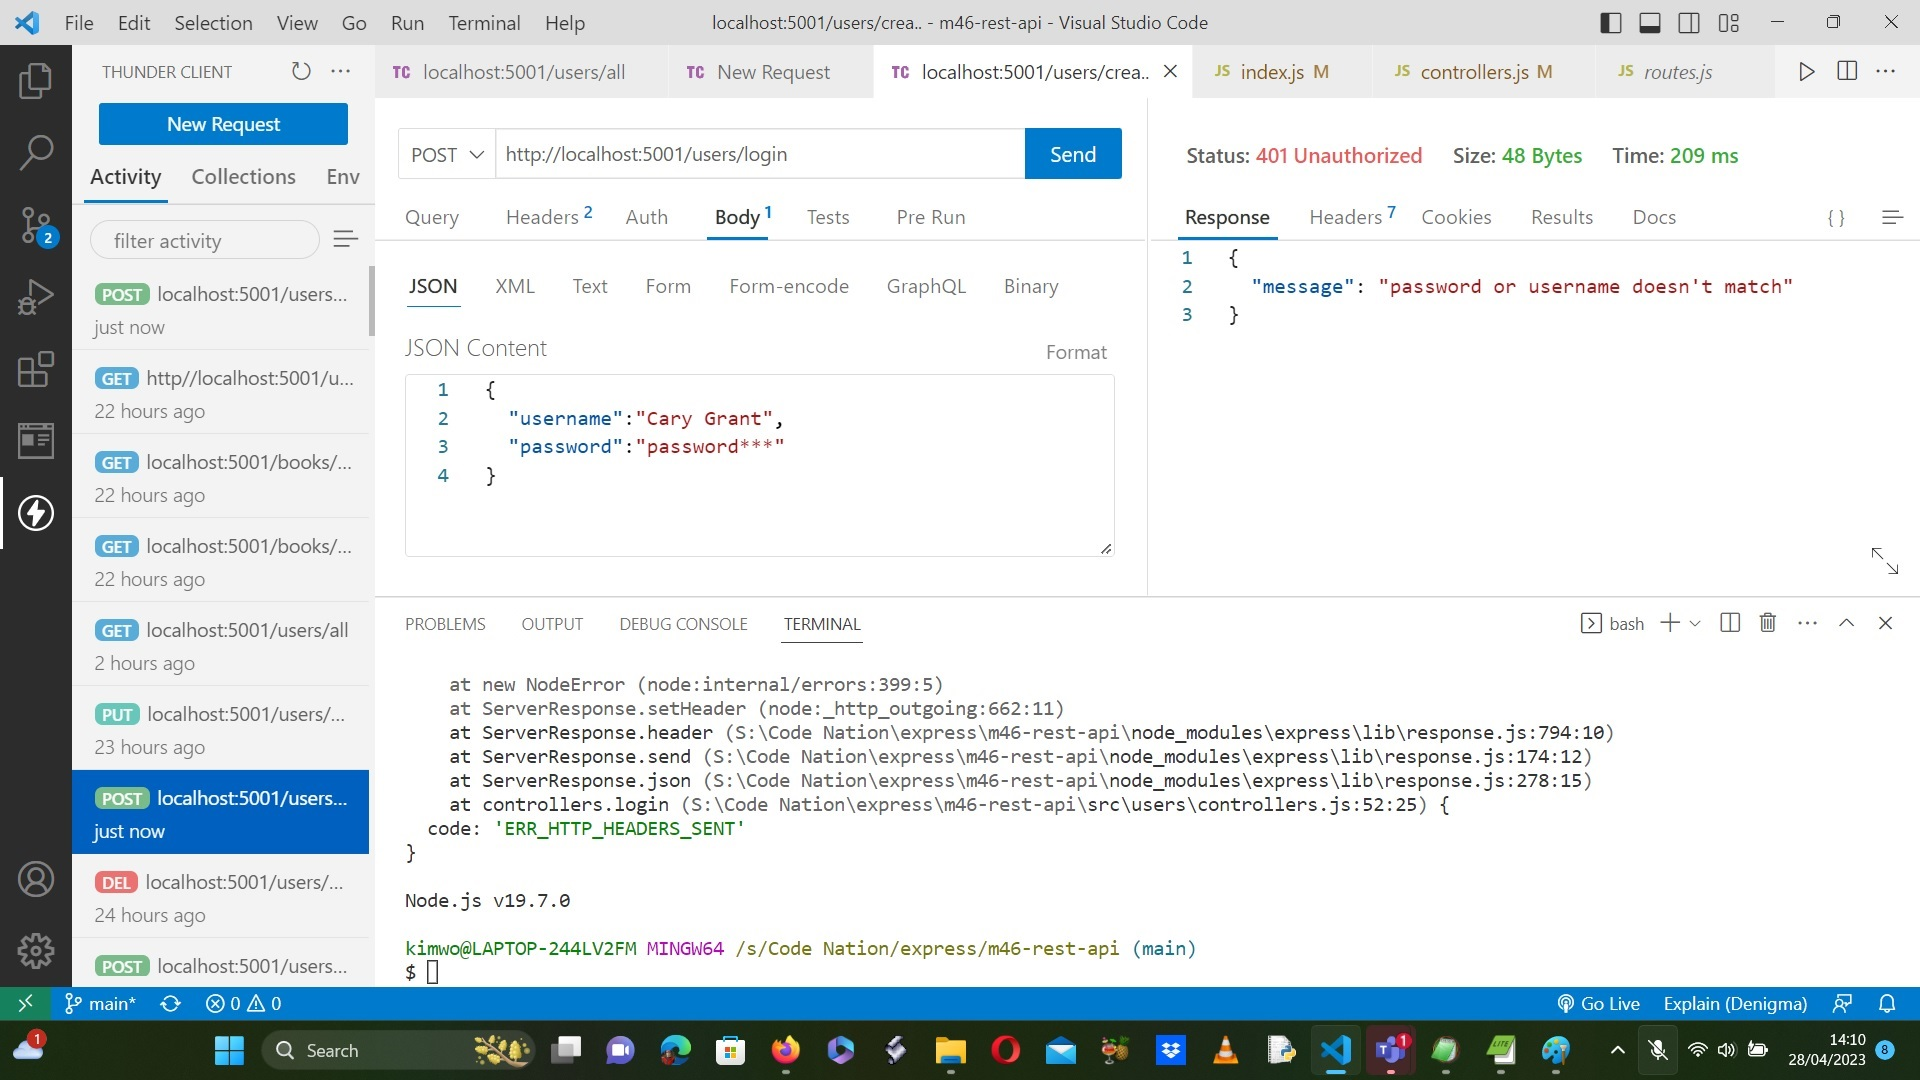
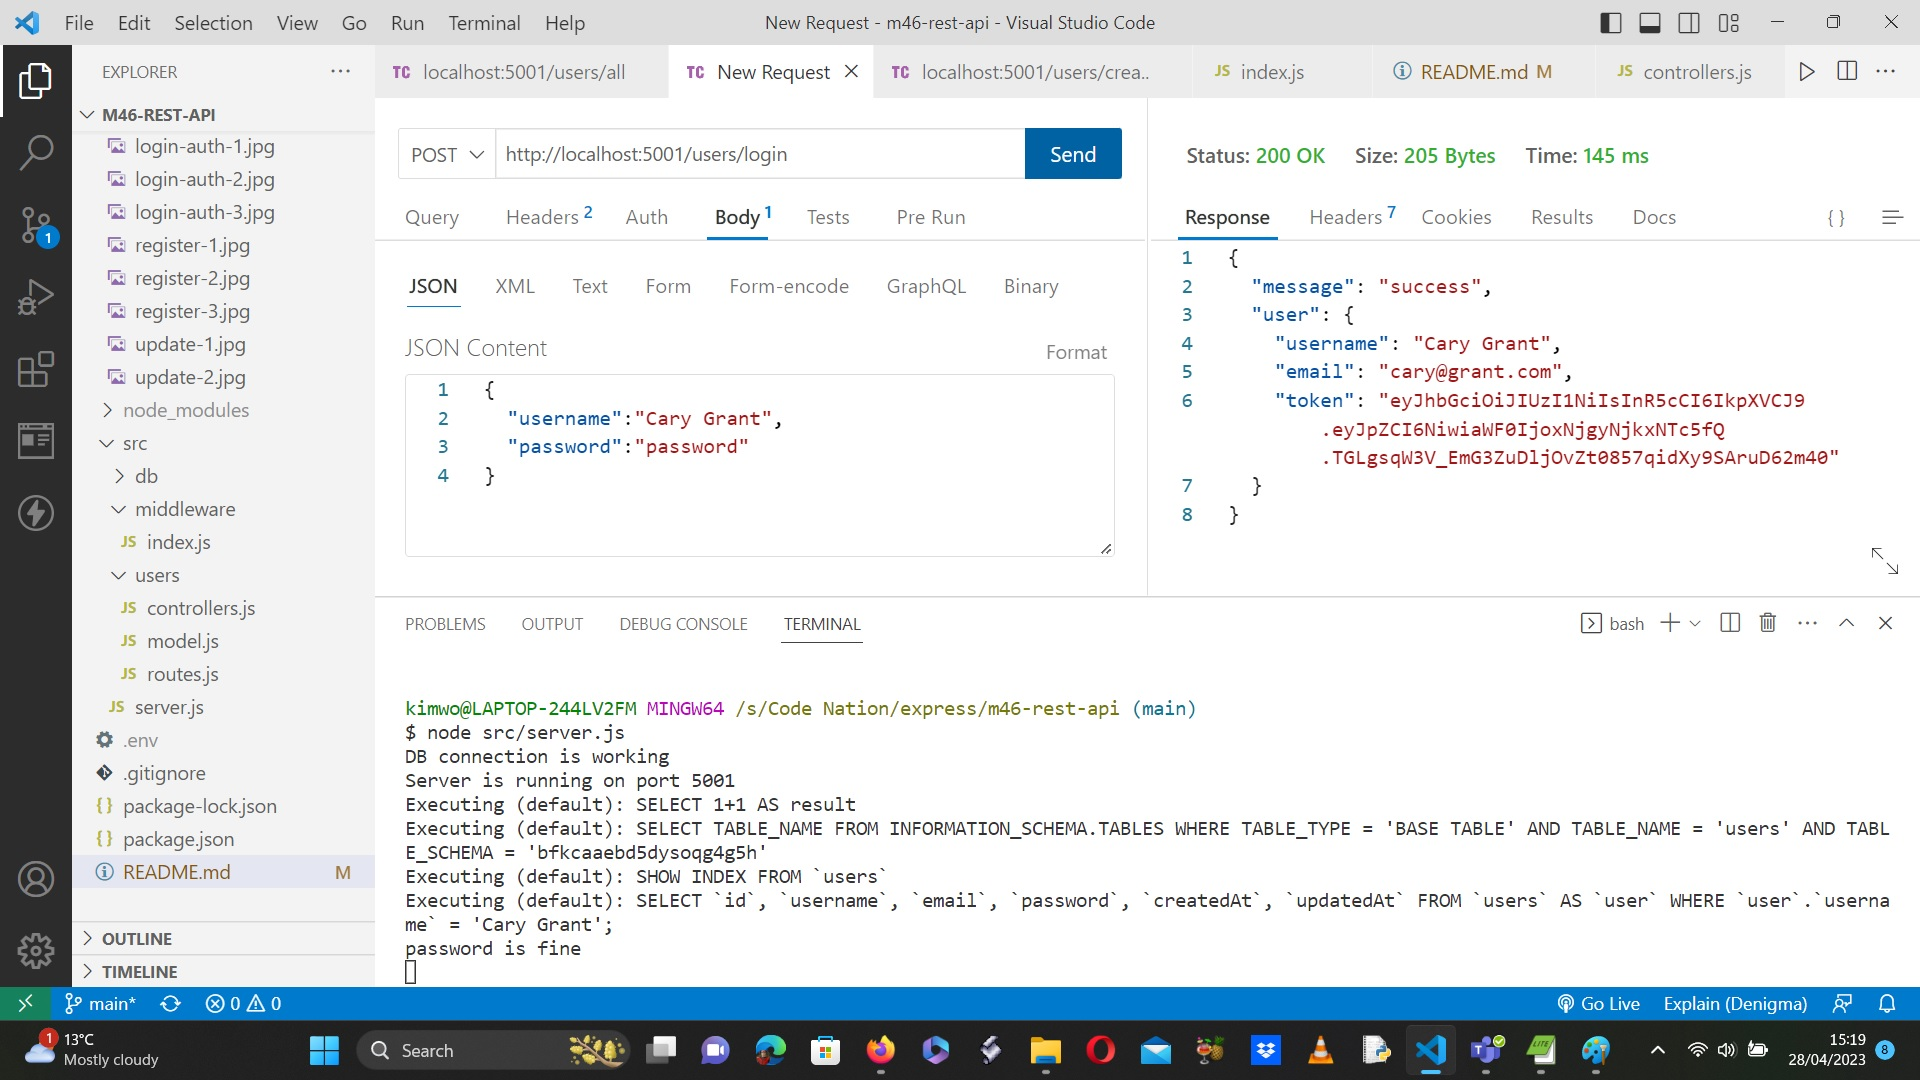
modified some images

diff --git a/README.md b/README.md
@@ -28,3 +28,9 @@ all-users-1.jpg       execute of 'users/login' for user to get authorisation tok
 all-users-2.jpg       using token in Authorization header to execute 'users/all' to get all users    
 
 
+Login Error Checking ('users/login')
+====================
+
+login-1.jpg           shows a successful login for user 'Cary Grant'  
+login-2.jpg           shows a successful catching of an invalid user 'Cary Granttttt'  
+login-3.jpg           shows a successful catching of an invalid password 'passworddddd'            
